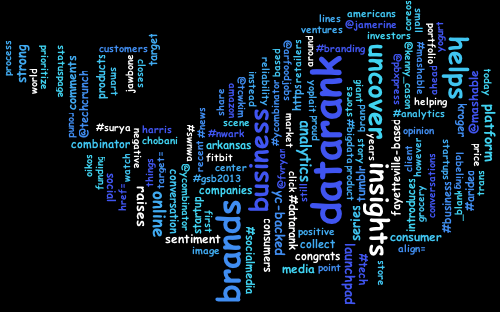
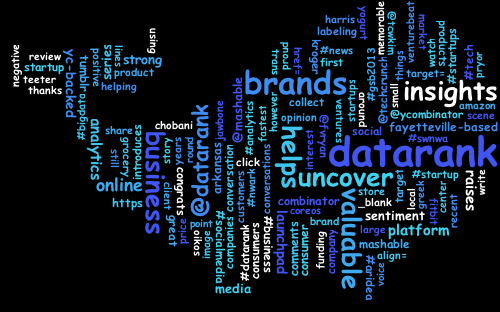
[kennycason/kumo#3] start spiral function cleanup

diff --git a/src/main/java/wordcloud/WordCloud.java b/src/main/java/wordcloud/WordCloud.java
@@ -5,6 +5,7 @@ import org.apache.log4j.Logger;
 import wordcloud.bg.Background;
 import wordcloud.bg.RectangleBackground;
 import wordcloud.collide.RectanglePixelCollidable;
+import wordcloud.collide.Vector2d;
 import wordcloud.collide.checkers.CollisionChecker;
 import wordcloud.collide.checkers.RectangleCollisionChecker;
 import wordcloud.collide.checkers.RectanglePixelCollisionChecker;
@@ -19,6 +20,8 @@ import wordcloud.padding.Padder;
 import wordcloud.padding.RectanglePadder;
 import wordcloud.padding.WordPixelPadder;
 import wordcloud.palette.ColorPalette;
+import wordcloud.spiral.RectangleSpiralFunction;
+import wordcloud.spiral.SpiralFunction;
 
 import javax.imageio.ImageIO;
 import java.awt.*;
@@ -52,6 +55,14 @@ public class WordCloud {
 
     protected final CollisionChecker collisionChecker;
 
+    protected final CollisionRaster collisionRaster;
+
+    protected final BufferedImage bufferedImage;
+
+    protected final Set<Word> placedWords = new HashSet<>();
+
+    protected final Set<Word> skipped = new HashSet<>();
+
     protected final Padder padder;
 
     protected int padding = 0;
@@ -67,14 +78,6 @@ public class WordCloud {
     protected CloudFont cloudFont = new CloudFont("Comic Sans MS", FontWeight.BOLD);
 
     protected AngleGenerator angleGenerator = new AngleGenerator();
-
-    protected final CollisionRaster collisionRaster;
-
-    protected final BufferedImage bufferedImage;
-
-    protected final Set<Word> placedWords = new HashSet<>();
-
-    protected final Set<Word> skipped = new HashSet<>();
 
     protected ColorPalette colorPalette = new ColorPalette(Color.ORANGE, Color.WHITE, Color.YELLOW, Color.GRAY, Color.GREEN);
 
@@ -106,7 +109,7 @@ public class WordCloud {
         for(final Word word : buildwords(wordFrequencies, this.colorPalette)) {
             final int startX = RANDOM.nextInt(Math.max(width - word.getWidth(), width));
             final int startY = RANDOM.nextInt(Math.max(height - word.getHeight(), height));
-            place(word, startX, startY);
+            place(word, new Vector2d(startX, startY));
 
         }
         drawForgroundToBackground();
@@ -151,37 +154,25 @@ public class WordCloud {
      * try to place in center, build out in a spiral trying to place words for N steps
      * @param word
      */
-    protected void place(final Word word, final int startX, final int startY) {
+    protected void place(final Word word, final Vector2d start) {
         final Graphics graphics = this.bufferedImage.getGraphics();
 
-        final int maxRadius = width;
+        final SpiralFunction spiralFunction = new RectangleSpiralFunction(start, width);
 
-        for(int r = 0; r < maxRadius; r += 2) {
-            for(int x = -r; x <= r; x++) {
-                if(startX + x < 0) { continue; }
-                if(startX + x >= width) { continue; }
+        while(spiralFunction.hasNext()) {
+            final Vector2d point = spiralFunction.next();
+            if(point.getX() < 0 ||
+                    point.getX() >= width ||
+                    point.getY() < 0 ||
+                    point.getY() >= height) {
+                continue;
+            }
 
-                boolean placed = false;
-                word.setX(startX + x);
-
-                // try positive root
-                int y1 = (int) Math.sqrt(r * r - x * x);
-                if(startY + y1 >= 0 && startY + y1 < height) {
-                    word.setY(startY + y1);
-                    placed = tryToPlace(word);
-                }
-                // try negative root
-                int y2 = -y1;
-                if(!placed && startY + y2 >= 0 && startY + y2 < height) {
-                    word.setY(startY + y2);
-                    placed = tryToPlace(word);
-                }
-                if(placed) {
-                    collisionRaster.mask(word.getCollisionRaster(), word.getX(), word.getY());
-                    graphics.drawImage(word.getBufferedImage(), word.getX(), word.getY(), null);
-                    return;
-                }
-
+            word.setXY(point);
+            if(tryToPlace(word)) {
+                collisionRaster.mask(word.getCollisionRaster(), word.getX(), word.getY());
+                graphics.drawImage(word.getBufferedImage(), word.getX(), word.getY(), null);
+                return;
             }
         }
         LOGGER.info("skipped: " + word.getWord());

diff --git a/src/test/java/wordcloud/spiral/TestRectangleSpiralFunction.java b/src/test/java/wordcloud/spiral/TestRectangleSpiralFunction.java
@@ -1,0 +1,102 @@
+package wordcloud.spiral;
+
+import org.junit.Test;
+import wordcloud.collide.Vector2d;
+
+import static org.junit.Assert.assertEquals;
+import static org.junit.Assert.assertFalse;
+import static org.junit.Assert.assertTrue;
+
+/**
+ * Created by kenny on 8/1/14.
+ */
+public class TestRectangleSpiralFunction {
+
+    @Test(expected = UnsupportedOperationException.class)
+    public void simpleTest() {
+        final Vector2d start = new Vector2d(0, 0);
+        final int maxRadius = 2;
+        final SpiralFunction spiralFunction = new RectangleSpiralFunction(start, maxRadius);
+
+        assertTrue(spiralFunction.hasNext());
+        assertNext(spiralFunction.next(), 0, 0, start);
+
+        assertNext(spiralFunction.next(), 0, -1, start);
+        assertNext(spiralFunction.next(), 1, -1, start);
+        assertNext(spiralFunction.next(), 1, 0, start);
+        assertNext(spiralFunction.next(), 1, 1, start);
+        assertNext(spiralFunction.next(), 0, 1, start);
+        assertNext(spiralFunction.next(), -1, 1, start);
+        assertNext(spiralFunction.next(), -1, 0, start);
+        assertNext(spiralFunction.next(), -1, -1, start);
+
+        assertNext(spiralFunction.next(), -1, -2, start);
+        assertNext(spiralFunction.next(), 0, -2, start);
+        assertNext(spiralFunction.next(), 1, -2, start);
+        assertNext(spiralFunction.next(), 2, -2, start);
+        assertNext(spiralFunction.next(), 2, -1, start);
+        assertNext(spiralFunction.next(), 2, 0, start);
+        assertNext(spiralFunction.next(), 2, 1, start);
+        assertNext(spiralFunction.next(), 2, 2, start);
+        assertNext(spiralFunction.next(), 1, 2, start);
+        assertNext(spiralFunction.next(), 0, 2, start);
+        assertNext(spiralFunction.next(), -1, 2, start);
+        assertNext(spiralFunction.next(), -2, 2, start);
+        assertNext(spiralFunction.next(), -2, 1, start);
+        assertNext(spiralFunction.next(), -2, 0, start);
+        assertNext(spiralFunction.next(), -2, -1, start);
+        assertNext(spiralFunction.next(), -2, -2, start);
+
+        assertFalse(spiralFunction.hasNext());
+
+        // throw exception
+        spiralFunction.next();
+    }
+
+    @Test(expected = UnsupportedOperationException.class)
+    public void offsetTest() {
+        final Vector2d start = new Vector2d(10, 10);
+        final int maxRadius = 2;
+        final SpiralFunction spiralFunction = new RectangleSpiralFunction(start, maxRadius);
+
+        assertTrue(spiralFunction.hasNext());
+        assertNext(spiralFunction.next(), 0, 0, start);
+
+        assertNext(spiralFunction.next(), 0, -1, start);
+        assertNext(spiralFunction.next(), 1, -1, start);
+        assertNext(spiralFunction.next(), 1, 0, start);
+        assertNext(spiralFunction.next(), 1, 1, start);
+        assertNext(spiralFunction.next(), 0, 1, start);
+        assertNext(spiralFunction.next(), -1, 1, start);
+        assertNext(spiralFunction.next(), -1, 0, start);
+        assertNext(spiralFunction.next(), -1, -1, start);
+
+        assertNext(spiralFunction.next(), -1, -2, start);
+        assertNext(spiralFunction.next(), 0, -2, start);
+        assertNext(spiralFunction.next(), 1, -2, start);
+        assertNext(spiralFunction.next(), 2, -2, start);
+        assertNext(spiralFunction.next(), 2, -1, start);
+        assertNext(spiralFunction.next(), 2, 0, start);
+        assertNext(spiralFunction.next(), 2, 1, start);
+        assertNext(spiralFunction.next(), 2, 2, start);
+        assertNext(spiralFunction.next(), 1, 2, start);
+        assertNext(spiralFunction.next(), 0, 2, start);
+        assertNext(spiralFunction.next(), -1, 2, start);
+        assertNext(spiralFunction.next(), -2, 2, start);
+        assertNext(spiralFunction.next(), -2, 1, start);
+        assertNext(spiralFunction.next(), -2, 0, start);
+        assertNext(spiralFunction.next(), -2, -1, start);
+        assertNext(spiralFunction.next(), -2, -2, start);
+
+        assertFalse(spiralFunction.hasNext());
+
+        // throw exception
+        spiralFunction.next();
+    }
+
+    private void assertNext(Vector2d next, int x, int y, Vector2d start) {
+        assertEquals(x + start.getX(), next.getX());
+        assertEquals(y + start.getY(), next.getY());
+    }
+
+}

diff --git a/src/main/java/wordcloud/spiral/RectangleSpiralFunction.java b/src/main/java/wordcloud/spiral/RectangleSpiralFunction.java
@@ -1,0 +1,83 @@
+package wordcloud.spiral;
+
+import wordcloud.collide.Vector2d;
+
+/**
+ * Created by kenny on 8/1/14.
+ */
+public class RectangleSpiralFunction extends SpiralFunction {
+
+    private static enum Direction {UP,DOWN,LEFT,RIGHT}
+
+    private Direction direction = Direction.UP;
+
+    private int x = 0;
+
+    private int y = 0;
+
+    private int radius = 0;
+
+    private final int step;
+
+    private final int maxRadius;
+
+    public RectangleSpiralFunction(final Vector2d start, final int maxRadius) {
+        this(start, maxRadius, 2);
+    }
+
+
+    public RectangleSpiralFunction(final Vector2d start, final int maxRadius, final int step) {
+        super(start);
+        this.maxRadius = maxRadius;
+        this.step = step;
+    }
+
+    @Override
+    public boolean hasNext() {
+        return radius <= maxRadius && x != -maxRadius && y != -maxRadius;
+    }
+
+    @Override
+    public Vector2d next() {
+        if(!hasNext()) {
+            throw new UnsupportedOperationException("Exceeded Max Radius!");
+        }
+        if(radius == 0) {
+            radius += step;
+            return new Vector2d(x, y);
+        }
+        switch(direction) {
+            case UP:
+                y--;
+                if(y == -radius) {
+                    direction = Direction.RIGHT;
+                }
+                break;
+
+            case RIGHT:
+                x++;
+                if(x == radius) {
+                    direction = Direction.DOWN;
+                }
+                break;
+
+            case DOWN:
+                y++;
+                if(y == radius) {
+                    direction = Direction.LEFT;
+                }
+                break;
+
+            case LEFT:
+                x--;
+                if(x == -radius) {
+                    direction = Direction.UP;
+                    radius += step;
+                }
+                break;
+
+        }
+        return new Vector2d(x + start.getX(), y + start.getY());
+    }
+
+}

diff --git a/src/main/java/wordcloud/PolarWordCloud.java b/src/main/java/wordcloud/PolarWordCloud.java
@@ -54,13 +54,13 @@ public class PolarWordCloud extends WordCloud {
                 final Word word = wordIterator.next();
                 final Vector2d startPosition = getStartPosition(pole1);
 
-                place(word, startPosition.getX(), startPosition.getY());
+                place(word, startPosition);
             }
             if(wordIterator2.hasNext()) {
                 final Word word = wordIterator2.next();
                 final Vector2d startPosition = getStartPosition(pole2);
 
-                place(word, startPosition.getX(), startPosition.getY());
+                place(word, startPosition);
             }
         }
 

diff --git a/src/main/java/wordcloud/spiral/SpiralFunction.java b/src/main/java/wordcloud/spiral/SpiralFunction.java
@@ -1,0 +1,29 @@
+package wordcloud.spiral;
+
+import wordcloud.collide.Vector2d;
+
+import java.util.Iterator;
+
+/**
+ * Created by kenny on 8/1/14.
+ */
+public abstract class SpiralFunction implements Iterator<Vector2d> {
+
+    protected Vector2d start;
+
+    protected SpiralFunction(final Vector2d start) {
+        this.start = start;
+    }
+
+    @Override
+    public abstract boolean hasNext();
+
+    @Override
+    public abstract Vector2d next();
+
+    @Override
+    public void remove() {
+        throw new UnsupportedOperationException("Illegal Remove from iterator");
+    }
+
+}

diff --git a/src/test/java/wordcloud/TestPolarWordCloud.java b/src/test/java/wordcloud/TestPolarWordCloud.java
@@ -138,7 +138,7 @@ public class TestPolarWordCloud {
         final long startTime = System.currentTimeMillis();
         wordCloud.build(wordFrequencies, wordFrequencies2);
         LOGGER.info("Took " + (System.currentTimeMillis() - startTime) + "ms to build");
-        wordCloud.writeToFile("output/tidy_cat_litter_cat_shape3.png");
+        wordCloud.writeToFile("/tmp/tidy_cat_litter_cat_shape3.png");
 
         // horrible times, 400 words, total 800 words
         // pixel perfect

diff --git a/src/test/java/wordcloud/TestWordCloud.java b/src/test/java/wordcloud/TestWordCloud.java
@@ -342,7 +342,7 @@ public class TestWordCloud {
         wordCloud.setCloudFont(new CloudFont("Helvitica", FontWeight.PLAIN));
         wordCloud.setFontScalar(new LinearFontScalar(8, 130));
         wordCloud.build(wordFrequencies);
-        wordCloud.writeToFile("output/wordcloud_match_online_example.png");
+        wordCloud.writeToFile("/tmp/wordcloud_match_online_example.png");
     }
 
     private static ColorPalette buildRandomColorPallete(int n) {

diff --git a/src/main/java/wordcloud/Word.java b/src/main/java/wordcloud/Word.java
@@ -69,16 +69,12 @@ public class Word implements Collidable {
         return position.getX();
     }
 
-    public void setX(int x) {
-        position.setX(x);
-    }
-
     public int getY() {
         return position.getY();
     }
 
-    public void setY(int y) {
-        position.setY(y);
+    public void setXY(Vector2d position) {
+        this.position = position;
     }
 
     public int getWidth() {
